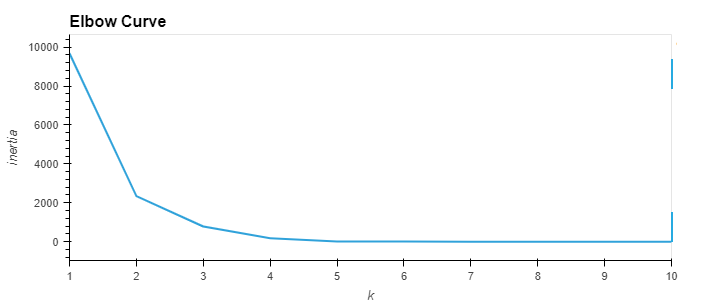
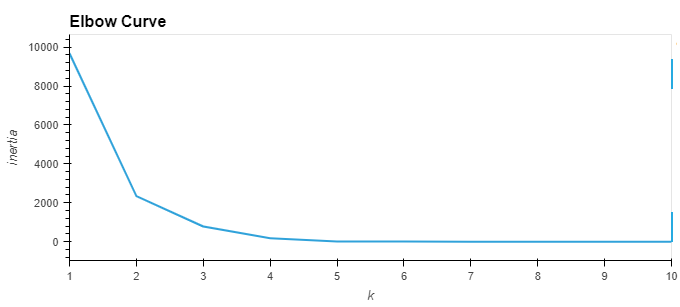
Update framework

diff --git a/templates/index.html b/templates/index.html
@@ -76,6 +76,7 @@ body {font-family: Arial;}
     <!-- Tab links -->
      <!-- https://www.w3schools.com/howto/howto_js_tabs.asp -->
     <div class="tab">
+        <button class="tablinks" onclick="viz(event, 'Tools')">Tools Used</button>
         <button class="tablinks" onclick="viz(event, 'Intro')">Introduction</button>
         <button class="tablinks" onclick="viz(event, 'ETLPP')">ETL/Pre-processing</button>
         <button class="tablinks" onclick="viz(event, 'PCA')">PCA</button>
@@ -83,36 +84,52 @@ body {font-family: Arial;}
     </div>
     
     <!-- Tab content -->
+    <div id="Tools" class="tabcontent">
+        <p>The tools we used in this project are listed below.</p>
+        <p>For data cleanup and pre-processing, we used:</p>
+        <ul>
+            <li>SQL</lli>
+            <li>Pandas</li>
+            <li>Numpy</li>
+        </ul>
+        <p>For our principle component analysis and our machine learning model, we used (in addition to above) Scikit-learn's modules:</p>
+        <ul>
+            <li>SimpleImputer</li>
+            <li>StandardScaler</li>
+            <li>MinMaxScaler</li>
+            <li>PCA</li>
+            <li>Kmeans</li>
+        </ul>
+        <p>For our visualizations, we used:
+            <ul>
+                <li>Tableau Public</li>
+                <li>Plotly Express</li>
+                <li>Hvplot</li>
+            </ul>
+        </p>
+    </div>
+
     <div id="Intro" class="tabcontent">
         <h3>Introduction</h3>
         <p>For our group's project, we wanted to see what countries have been historically successful
         at increasing its citizens' life expectancy year-over-year. We obtained our data from
         the website, <span class="emphasized">"The World Bank."</span></p>
         
-        
         <p>The World Bank's Open Data website has global development data on all of the countries in the
         world. Each country comes with a plethora of information and statistics about its citizens.
-        The data from the iFrame below is available to be downloaded to a create a CSV of the country's statistics</p>
-        <!-- https://www.w3schools.com/html/html_iframe.asp set all sizes to 800x400-->
-        <iframe src="https://data.worldbank.org/country/united-states" height="400" width="800"
-            title="World Bank Data Information for USA"></iframe>
-
-        <p>Total life expectancy year-over-year has increased considerably from a global perspective, but
-        some countries have been more successful at it than others. See the iFrame below to interact
-        and discover how life expectancy trends have evolved, or feel free to visit
+        The data from the iFrame below is available to be downloaded to a create a CSV of the country's statistics.
+        Total life expectancy year-over-year has increased considerably from a global perspective, but
+        some countries have been more successful at it than others. Discover how life expectancy trends have evolved
+        by visiting
             <a href="https://data.worldbank.org/indicator/SP.DYN.LE00.IN?end=2020&start=1960&view=chart&year=2020">
                 the webpage here.</a>
-        </p>
-        <iframe src="https://data.worldbank.org/indicator/SP.DYN.LE00.IN?end=2020&locations=AW&start=1960&view=chart&year=2020" height="400" width="800"
-            title="World Bank Data Information for Life expectancy"></iframe>
 
         <p>Naturally, one would think indicators like comparing a country's life exptancy to its GDP would be a
         good metric, but just doing that and calling it done and dusted lacks nuance and context to what a particular
         country could be doing well... every country is different, and how it increases its own GDP will be different
-        compared to other countries, so we needed to look at the bigger pictures.
-        </p>
-        <div class='tableauPlaceholder' id='viz1657063121681' style='position: relative'><noscript><a href='#'><img alt='Life Expectancy VS GDP ' src='https:&#47;&#47;public.tableau.com&#47;static&#47;images&#47;Fi&#47;Finalproject_16570630346710&#47;LifeExpectancyVSGDP&#47;1_rss.png' style='border: none' /></a></noscript><object class='tableauViz'  style='display:none;'><param name='host_url' value='https%3A%2F%2Fpublic.tableau.com%2F' /> <param name='embed_code_version' value='3' /> <param name='site_root' value='' /><param name='name' value='Finalproject_16570630346710&#47;LifeExpectancyVSGDP' /><param name='tabs' value='no' /><param name='toolbar' value='yes' /><param name='static_image' value='https:&#47;&#47;public.tableau.com&#47;static&#47;images&#47;Fi&#47;Finalproject_16570630346710&#47;LifeExpectancyVSGDP&#47;1.png' /> <param name='animate_transition' value='yes' /><param name='display_static_image' value='yes' /><param name='display_spinner' value='yes' /><param name='display_overlay' value='yes' /><param name='display_count' value='yes' /><param name='language' value='en-US' /><param name='filter' value='publish=yes' /></object></div>                <script type='text/javascript'>                    var divElement = document.getElementById('viz1657063121681');                    var vizElement = divElement.getElementsByTagName('object')[0];                    vizElement.style.width='1016px';vizElement.style.height='991px';                    var scriptElement = document.createElement('script');                    scriptElement.src = 'https://public.tableau.com/javascripts/api/viz_v1.js';                    vizElement.parentNode.insertBefore(scriptElement, vizElement);                </script>
+        compared to other countries, so we needed to look at the bigger pictures.</p>
         <!--- https://help.tableau.com/current/pro/desktop/en-us/embed.htm -->
+        <div class='tableauPlaceholder' id='viz1657063121681' style='position: relative'><noscript><a href='#'><img alt='Life Expectancy VS GDP ' src='https:&#47;&#47;public.tableau.com&#47;static&#47;images&#47;Fi&#47;Finalproject_16570630346710&#47;LifeExpectancyVSGDP&#47;1_rss.png' style='border: none' /></a></noscript><object class='tableauViz'  style='display:none;'><param name='host_url' value='https%3A%2F%2Fpublic.tableau.com%2F' /> <param name='embed_code_version' value='3' /> <param name='site_root' value='' /><param name='name' value='Finalproject_16570630346710&#47;LifeExpectancyVSGDP' /><param name='tabs' value='no' /><param name='toolbar' value='yes' /><param name='static_image' value='https:&#47;&#47;public.tableau.com&#47;static&#47;images&#47;Fi&#47;Finalproject_16570630346710&#47;LifeExpectancyVSGDP&#47;1.png' /> <param name='animate_transition' value='yes' /><param name='display_static_image' value='yes' /><param name='display_spinner' value='yes' /><param name='display_overlay' value='yes' /><param name='display_count' value='yes' /><param name='language' value='en-US' /><param name='filter' value='publish=yes' /></object></div>                <script type='text/javascript'>                    var divElement = document.getElementById('viz1657063121681');                    var vizElement = divElement.getElementsByTagName('object')[0];                    vizElement.style.width='1016px';vizElement.style.height='991px';                    var scriptElement = document.createElement('script');                    scriptElement.src = 'https://public.tableau.com/javascripts/api/viz_v1.js';                    vizElement.parentNode.insertBefore(scriptElement, vizElement);                </script>
     </div>
 
     <div id="ETLPP" class="tabcontent">
@@ -121,9 +138,9 @@ body {font-family: Arial;}
         <p>After downloading all of the data, there were (understandably) a lot of rows of data to parse through.
         For the ETL and Pre-processing phase, we had to combine 213 different countries' CSV files to create a
         masterlist list of information that would then be converted into a Pandas Dataframe for analysis. Between
-        all of the CSVS, there was a total of over 3,000,000 million entries for the countries we imported into our
+        all of the CSVS, there was a total of over 300,000 entries for the countries we imported into our
         PostgreSQL database through pgAdmin 4.</p>
-        <!-- Insert screenshot from SQL -->
+        <img src = "static/images/sql_query.png" alt = "pgAdmin 4 Database Query"><br>
 
         <p>The master database was then converted into another invidual country's CSV so that the data can be properly
         read. The CSV's were currently set-up with years across the top instead of feature indicators, and that would
@@ -131,7 +148,6 @@ body {font-family: Arial;}
         CSV files. The years 1960 to 1999 were also dropped to only utilize relevant data and to have our model learn
         from the most up-to-date indicators.
         </p>
-
         <div class="code-ex">
             # Per-country .csv generation loop<br>
             for country in country_codes:<br><br>
@@ -156,12 +172,11 @@ body {font-family: Arial;}
 
             &emsp;&emsp;# Export per-country .csv<br>
             &emsp;&emsp;dfT.to_csv('Countries/' + country + '.csv')
-        </div>
+        </div><br>
 
         <p>Afterwards, more processing was done on the per-country CSVs to select features that had at least 90%
         of their data, i.e. had at least 9 years worth of information. Features that were missing more than 1 year
         of data was dropped, and the missing year would be later imputed using sk-learn.</p>
-
         <div class="code-ex">
             # Process country.csv and eliminate empty data<br>
             for country in country_codes:<br>
@@ -190,12 +205,11 @@ body {font-family: Arial;}
             &emsp;df.drop('Unnamed: 0', axis=1, inplace=True)<br>
             &emsp;df.rename(index={0: country}, inplace=True)<br>
             &emsp;df.to_csv('Countries_adjusted/' + country + '.csv')<br>
-        </div>
+        </div><br>
 
         <p>After processing all of the CSVs and parsing through the data, only retaining usable features, the
         individual countries' information was collected into a dataframe, and exported out into another CSV to be
         used for our PCA calculation.</p>
-
         <div class="code-ex">
             # Utilize same algorithm to process master list<br>
             df.fillna('BLANK', inplace=True)<br><br>
@@ -224,40 +238,60 @@ body {font-family: Arial;}
         <p>Externally, our master CSV with features and countries was transposed so now each country was a column
         in the header row and each feature was a row. The CSV was then imported into Pandas dataframe for further
         processing and manipulation</p>
-        <!-- Insert head() of worldbank_data.csv df -->
+        {% block content1 %}
+        {{data1 | safe}}
+        {% endblock %}<br>
 
         <p>sk-learn was used to impute the missing NaN values from the dataframe; this was done to ensure the
         analysis did not have any problems analyzing trends of each feature from country-to-country.</p>
-
         <div class="code-ex">
             # Impute NaN values using SKlearn Imputer<br>
             imputer = SimpleImputer(strategy='mean', missing_values=np.nan)<br>
             imputer = imputer.fit(worldbank_df[[countries]])<br>
             worldbank_df[[countries]] = imputer.transform(worldbank_df[[countries]])
         </div>
+        {% block content2 %}
+        {{data2 | safe}}
+        {% endblock %}<br>
 
         <p>The dataframe was then standardized using StandardScaler(), and PCA was performed using three
         principle components. Reducing the data gave us the following output:</p>
-
         <div class="code-ex">
             [0.77256764 0.12608949 0.04804051]
-        </div>
+        </div><br>
 
         <p>Which told us that of the features examined, over 77% of features at any given time were of a relevant class...
         this is an important note that will be brought up again later. But for now, we used K-means clustering to confirm
         what our PCA was telling us, and it seemed to hold.</p>
-        <!-- Insert K-means elbow curve -->
+        <img src = "static/images/K-means.png" alt = "K-means Elbow Curve"><br>
 
         <p>We then made a merged dataframe to see which class each feature was given, and we saw that an overwhelming
-        majority were given Class 1. This is also visually evidenced by the large amount of features clustered into one
-        section of our 3D scatter that we generated with the merged dataframe.</p>
-        <!-- Insert 3D scatter cluster -->
+        majority were given Class 3. This is also visually evidenced by the large amount of features clustered into one
+        section of our 2D scatters that we generated with the merged dataframe.</p>
+        <img src = "static/images/classes.png" alt = "Classes Distribution Total">
+        <img src = "static/images/rus_usa.png" alt = "K-scatter of Russia versus the United States">
+        <img src = "static/images/ukr_usa.png" alt = "K-scatter of Ukraine versus the United States">
+        <img src = "static/images/bra_can.png" alt = "K-scatter of Canada versus Brazil">
     </div>
     
     <!-- Type up our reflections-->
     <div id="Lessons" class="tabcontent">
         <h3>Lessons and Learnings</h3>
-        <p>Insert text here.</p>
+        <p>For the future, we realize our pre-processing methods and model devlopment could benefit from a lot of tweaks.
+        Initially when we created the master dataframe, we had omitted the years 1960 to 1999 to only use relevant data;
+        our PCA and model development could benefit from a larger pool of history to analyze trends across the years.
+        Additionally we also constrained features to have at least 90% yearly completion, but that eliminated over 1,000
+        features from our analysis; starting off with 1,445 features in our master dataframe and then coming down to only
+        48, we saw a decrease of 97% of potentially usable data.</p>
+        <p>This compounded later on when we ran our PCA and K-means clustering. As previously mentioned, our PCA was confident
+        in predicting a 77% relevancy across the 48 features that remained, which was then evident in Class 3 containing 93%
+        of the featureset in its grouping; this was consistent across country comparisons as well. If we were to increase the sample
+        sizing of our dataset by either adjusting yearly history or decreasing acceptable data tolerance, we could potentially
+        see a lot more variance in our PCA confidence as well as K-mean clustering. This would also give us a better indicator
+        of which features are most relevant to life expectancy projection, rather than just simply having an overwhelming majority
+        be represented; something like 
+        <a href="https://data.worldbank.org/indicator/AG.LND.FRST.K2?end=2020&start=1960&view=chart&year=2020">
+            AG.LND.FRST.K2</a> might be better considered in future model development.</p>
     </div>
   
     <!-- Javascript functions -->

diff --git a/app.py b/app.py
@@ -1,9 +1,11 @@
 from flask import Flask, render_template, url_for
 from flask_pymongo import PyMongo
+from sklearn.impute import SimpleImputer
 import json
 import plotly
 import plotly.express as px
 import pandas as pd
+import numpy as np
 
 # https://stackoverflow.com/questions/22180993/pandas-dataframe-display-on-a-webpage
 # https://towardsdatascience.com/web-visualization-with-plotly-and-flask-3660abf9c946
@@ -11,26 +13,90 @@ import pandas as pd
 
 app = Flask(__name__)
 
-# df1 = pd.read_csv('Resources/worldbank_all-data.csv')
-# df2 = pd.read_csv('Resources/worldbank_data_postprocessed.csv')
-# features = df2.columns
-
 @app.route("/")
 def index():
-   return render_template("index.html")
+   # Dataframe header
+   worldbank_df = pd.read_csv("Resources/worldbank_data.csv")
+   x = worldbank_df.head(10)
+   
+   worldbank_df.rename(columns = {'Unnamed: 0':'Features'}, inplace = True)
+   worldbank_df.drop('Features', axis=1, inplace=True)
+   imputer = SimpleImputer(strategy='mean', missing_values=np.nan)
+   imputer = imputer.fit(worldbank_df[['ABW', 'ASM', 'BEL', 'BRB', 'AFG', 'BRN', 'ALB', 'AND', 'AGO',
+       'CUW', 'DMA', 'GIN', 'GRD', 'ARG', 'ARM', 'ATG', 'AUT', 'AUS',
+       'AZE', 'BDI', 'BFA', 'BGR', 'BHR', 'BHS', 'BLR', 'BLZ', 'BMU',
+       'BEN', 'BGD', 'BTN', 'BIH', 'CAN', 'CHI', 'BOL', 'BRA', 'CHN',
+       'CPV', 'CUB', 'CYM', 'BWA', 'CAF', 'DZA', 'HRV', 'KHM', 'TCD',
+       'VGB', 'CHL', 'COD', 'CIV', 'COG', 'COM', 'COL', 'CYP', 'CZE',
+       'DEU', 'CRI', 'DJI', 'DNK', 'ECU', 'ERI', 'FIN', 'FJI', 'FRA',
+       'FRO', 'GIB', 'DOM', 'ETH', 'EGY', 'GNQ', 'EST', 'GRC', 'GRL',
+       'GAB', 'GHA', 'GEO', 'GMB', 'GNB', 'GTM', 'GUM', 'HTI', 'JPN',
+       'GUY', 'NOR', 'HKG', 'XKX', 'HND', 'HUN', 'IMN', 'IDN', 'IND',
+       'IRL', 'IRQ', 'IRN', 'ISL', 'ISR', 'JAM', 'JOR', 'ITA', 'PYF',
+       'SLV', 'SWZ', 'FSM', 'KAZ', 'KIR', 'KOR', 'LBN', 'LBR', 'LBY',
+       'LIE', 'LSO', 'LTU', 'LUX', 'LVA', 'KEN', 'KGZ', 'MAC', 'MCO',
+       'KWT', 'LAO', 'MDV', 'MEX', 'MHL', 'MAR', 'MLI', 'MMR', 'MNE',
+       'MDA', 'MNP', 'MDG', 'MOZ', 'MWI', 'NAM', 'NCL', 'MKD', 'NER',
+       'NGA', 'NIC', 'NLD', 'MLT', 'NPL', 'OMN', 'PRK', 'MNG', 'MRT',
+       'MUS', 'KNA', 'LCA', 'MAF', 'MYS', 'NZL', 'PAK', 'ESP', 'LKA',
+       'PAN', 'PER', 'PHL', 'PLW', 'SYC', 'PNG', 'POL', 'PRI', 'PRT',
+       'QAT', 'PRY', 'RUS', 'SAU', 'SGP', 'SMR', 'ROU', 'RWA', 'SEN',
+       'SLB', 'SOM', 'SLE', 'SSD', 'STP', 'SRB', 'SVK', 'SVN', 'SXM',
+       'WSM', 'ARE', 'GBR', 'ZAF', 'SDN', 'SUR', 'SWE', 'TCA', 'CHE',
+       'TKM', 'TLS', 'TON', 'TTO', 'TUV', 'SYR', 'USA', 'VCT', 'VEN',
+       'VIR', 'TGO', 'TJK', 'VNM', 'THA', 'VUT', 'YEM', 'TUN', 'TZA',
+       'UGA', 'UKR', 'URY', 'UZB', 'ZMB', 'ZWE']])
+   worldbank_df[['ABW', 'ASM', 'BEL', 'BRB', 'AFG', 'BRN', 'ALB', 'AND', 'AGO',
+       'CUW', 'DMA', 'GIN', 'GRD', 'ARG', 'ARM', 'ATG', 'AUT', 'AUS',
+       'AZE', 'BDI', 'BFA', 'BGR', 'BHR', 'BHS', 'BLR', 'BLZ', 'BMU',
+       'BEN', 'BGD', 'BTN', 'BIH', 'CAN', 'CHI', 'BOL', 'BRA', 'CHN',
+       'CPV', 'CUB', 'CYM', 'BWA', 'CAF', 'DZA', 'HRV', 'KHM', 'TCD',
+       'VGB', 'CHL', 'COD', 'CIV', 'COG', 'COM', 'COL', 'CYP', 'CZE',
+       'DEU', 'CRI', 'DJI', 'DNK', 'ECU', 'ERI', 'FIN', 'FJI', 'FRA',
+       'FRO', 'GIB', 'DOM', 'ETH', 'EGY', 'GNQ', 'EST', 'GRC', 'GRL',
+       'GAB', 'GHA', 'GEO', 'GMB', 'GNB', 'GTM', 'GUM', 'HTI', 'JPN',
+       'GUY', 'NOR', 'HKG', 'XKX', 'HND', 'HUN', 'IMN', 'IDN', 'IND',
+       'IRL', 'IRQ', 'IRN', 'ISL', 'ISR', 'JAM', 'JOR', 'ITA', 'PYF',
+       'SLV', 'SWZ', 'FSM', 'KAZ', 'KIR', 'KOR', 'LBN', 'LBR', 'LBY',
+       'LIE', 'LSO', 'LTU', 'LUX', 'LVA', 'KEN', 'KGZ', 'MAC', 'MCO',
+       'KWT', 'LAO', 'MDV', 'MEX', 'MHL', 'MAR', 'MLI', 'MMR', 'MNE',
+       'MDA', 'MNP', 'MDG', 'MOZ', 'MWI', 'NAM', 'NCL', 'MKD', 'NER',
+       'NGA', 'NIC', 'NLD', 'MLT', 'NPL', 'OMN', 'PRK', 'MNG', 'MRT',
+       'MUS', 'KNA', 'LCA', 'MAF', 'MYS', 'NZL', 'PAK', 'ESP', 'LKA',
+       'PAN', 'PER', 'PHL', 'PLW', 'SYC', 'PNG', 'POL', 'PRI', 'PRT',
+       'QAT', 'PRY', 'RUS', 'SAU', 'SGP', 'SMR', 'ROU', 'RWA', 'SEN',
+       'SLB', 'SOM', 'SLE', 'SSD', 'STP', 'SRB', 'SVK', 'SVN', 'SXM',
+       'WSM', 'ARE', 'GBR', 'ZAF', 'SDN', 'SUR', 'SWE', 'TCA', 'CHE',
+       'TKM', 'TLS', 'TON', 'TTO', 'TUV', 'SYR', 'USA', 'VCT', 'VEN',
+       'VIR', 'TGO', 'TJK', 'VNM', 'THA', 'VUT', 'YEM', 'TUN', 'TZA',
+       'UGA', 'UKR', 'URY', 'UZB', 'ZMB', 'ZWE']] = imputer.transform(worldbank_df[['ABW', 'ASM', 'BEL', 'BRB', 'AFG', 'BRN', 'ALB', 'AND', 'AGO',
+       'CUW', 'DMA', 'GIN', 'GRD', 'ARG', 'ARM', 'ATG', 'AUT', 'AUS',
+       'AZE', 'BDI', 'BFA', 'BGR', 'BHR', 'BHS', 'BLR', 'BLZ', 'BMU',
+       'BEN', 'BGD', 'BTN', 'BIH', 'CAN', 'CHI', 'BOL', 'BRA', 'CHN',
+       'CPV', 'CUB', 'CYM', 'BWA', 'CAF', 'DZA', 'HRV', 'KHM', 'TCD',
+       'VGB', 'CHL', 'COD', 'CIV', 'COG', 'COM', 'COL', 'CYP', 'CZE',
+       'DEU', 'CRI', 'DJI', 'DNK', 'ECU', 'ERI', 'FIN', 'FJI', 'FRA',
+       'FRO', 'GIB', 'DOM', 'ETH', 'EGY', 'GNQ', 'EST', 'GRC', 'GRL',
+       'GAB', 'GHA', 'GEO', 'GMB', 'GNB', 'GTM', 'GUM', 'HTI', 'JPN',
+       'GUY', 'NOR', 'HKG', 'XKX', 'HND', 'HUN', 'IMN', 'IDN', 'IND',
+       'IRL', 'IRQ', 'IRN', 'ISL', 'ISR', 'JAM', 'JOR', 'ITA', 'PYF',
+       'SLV', 'SWZ', 'FSM', 'KAZ', 'KIR', 'KOR', 'LBN', 'LBR', 'LBY',
+       'LIE', 'LSO', 'LTU', 'LUX', 'LVA', 'KEN', 'KGZ', 'MAC', 'MCO',
+       'KWT', 'LAO', 'MDV', 'MEX', 'MHL', 'MAR', 'MLI', 'MMR', 'MNE',
+       'MDA', 'MNP', 'MDG', 'MOZ', 'MWI', 'NAM', 'NCL', 'MKD', 'NER',
+       'NGA', 'NIC', 'NLD', 'MLT', 'NPL', 'OMN', 'PRK', 'MNG', 'MRT',
+       'MUS', 'KNA', 'LCA', 'MAF', 'MYS', 'NZL', 'PAK', 'ESP', 'LKA',
+       'PAN', 'PER', 'PHL', 'PLW', 'SYC', 'PNG', 'POL', 'PRI', 'PRT',
+       'QAT', 'PRY', 'RUS', 'SAU', 'SGP', 'SMR', 'ROU', 'RWA', 'SEN',
+       'SLB', 'SOM', 'SLE', 'SSD', 'STP', 'SRB', 'SVK', 'SVN', 'SXM',
+       'WSM', 'ARE', 'GBR', 'ZAF', 'SDN', 'SUR', 'SWE', 'TCA', 'CHE',
+       'TKM', 'TLS', 'TON', 'TTO', 'TUV', 'SYR', 'USA', 'VCT', 'VEN',
+       'VIR', 'TGO', 'TJK', 'VNM', 'THA', 'VUT', 'YEM', 'TUN', 'TZA',
+       'UGA', 'UKR', 'URY', 'UZB', 'ZMB', 'ZWE']])
+   y = worldbank_df.head(10)
+
+
+   return render_template("index.html", data1=x.to_html(), data2=y.to_html())
 
 if __name__ == "__main__":
    app.run(debug=False)
-
-
-def main():
-        
-    def optionChanged(country):
-        def top_features(country): 
-            return
-            
-        def life_expectancy(country):
-            df11 = df1.set_index('country_name').loc[country]
-            df12 = df11.set_index('indicator_code')
-            fig = px.scatter(df12.loc['SP.DYN.LE00.IN'].drop(labels=['country_code', 'indicator_name']))
-            return fig.show()
